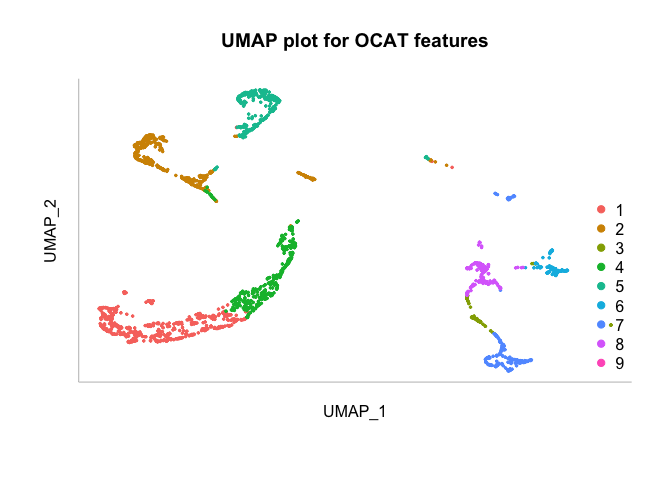
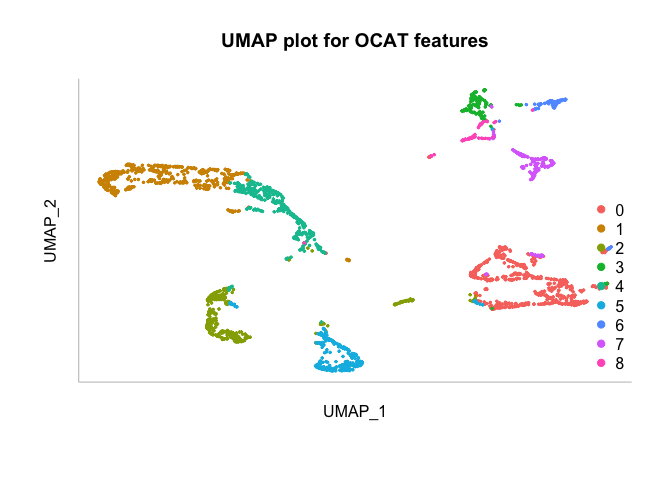
updated normalize_data, l2_normalization, sparse_encoding_integration, runn_OCAT,run_cell_inference,run_UMAP, tutorials

diff --git a/vignettes/Cell-inference-using-the-mouse-cortex-dataset.md b/vignettes/Cell-inference-using-the-mouse-cortex-dataset.md
@@ -13,11 +13,6 @@ al. (2015) and can be download
 
     # load Test Zeisel data
     data <- R.matlab::readMat('../../data/Test_5_Zeisel.mat')
-    #> 
-    #> Attaching package: 'Matrix'
-    #> The following objects are masked from 'package:tidyr':
-    #> 
-    #>     expand, pack, unpack
 
     # extract the gene feature matrix and make it saved as a sparse matrix
     in_X <- as(data$in.X, 'dgCMatrix')
@@ -44,14 +39,17 @@ al. (2015) and can be download
 
     ZW_db_db_list <-  run_OCAT(data_list, m_list=c(50), dim=30, 
                     p=0.3, log_norm=TRUE, l2_norm=TRUE, if_inference=TRUE, 
-                    random_seed=42)
+                    random_seed=42, labels_true = list(labels_true_reference))
     #> [1] "Starting Dimension Reduction"
     #> [1] "Dimension Reduction Finished"
+    #> New m_list based on the true cluster: 5 6 16 13 2 3 3 1 1[1] ""
+    #> [1] "Start Sparse Encoding"
+    #> [1] "Finished Sparse Encoding ...."
     ZW_db <- ZW_db_db_list[[1]]
     db_list <- ZW_db_db_list[[2]]
 
 # Run OCAT on the inference dataset
 
-    ZW_inf_labels <- run_cell_inference(data_list_inf,ZW_db,labels_db=labels_true_reference,db_list = db_list)
+    ZW_inf_labels <- run_cell_inference(data_list_inf,labels_db=labels_true_reference,db_list = db_list, true_known = TRUE)
     ZW_inf <- ZW_inf_labels[[1]]
     inf_labels <- ZW_inf_labels[[2]]

diff --git a/vignettes/Clustering.md b/vignettes/Clustering.md
@@ -46,7 +46,5 @@ In this page, we demonstrated how rOCAT do clustering with the Zeisel et al. (2
     gene_label <- data1$label2[1,]
     preprocess_in_X <- preprocess(data_list,TRUE,TRUE)[[1]]
     gene_df_figure  <- calculate_marker_gene(t(preprocess_in_X),labels_pred,5,gene_label)
-    gene_df  <- gene_df_figure[[1]]
-    fig <- gene_df_figure[[2]]
 
 <img src="Clustering_files/figure-markdown_strict/plot-1.png" width="1536"/>
